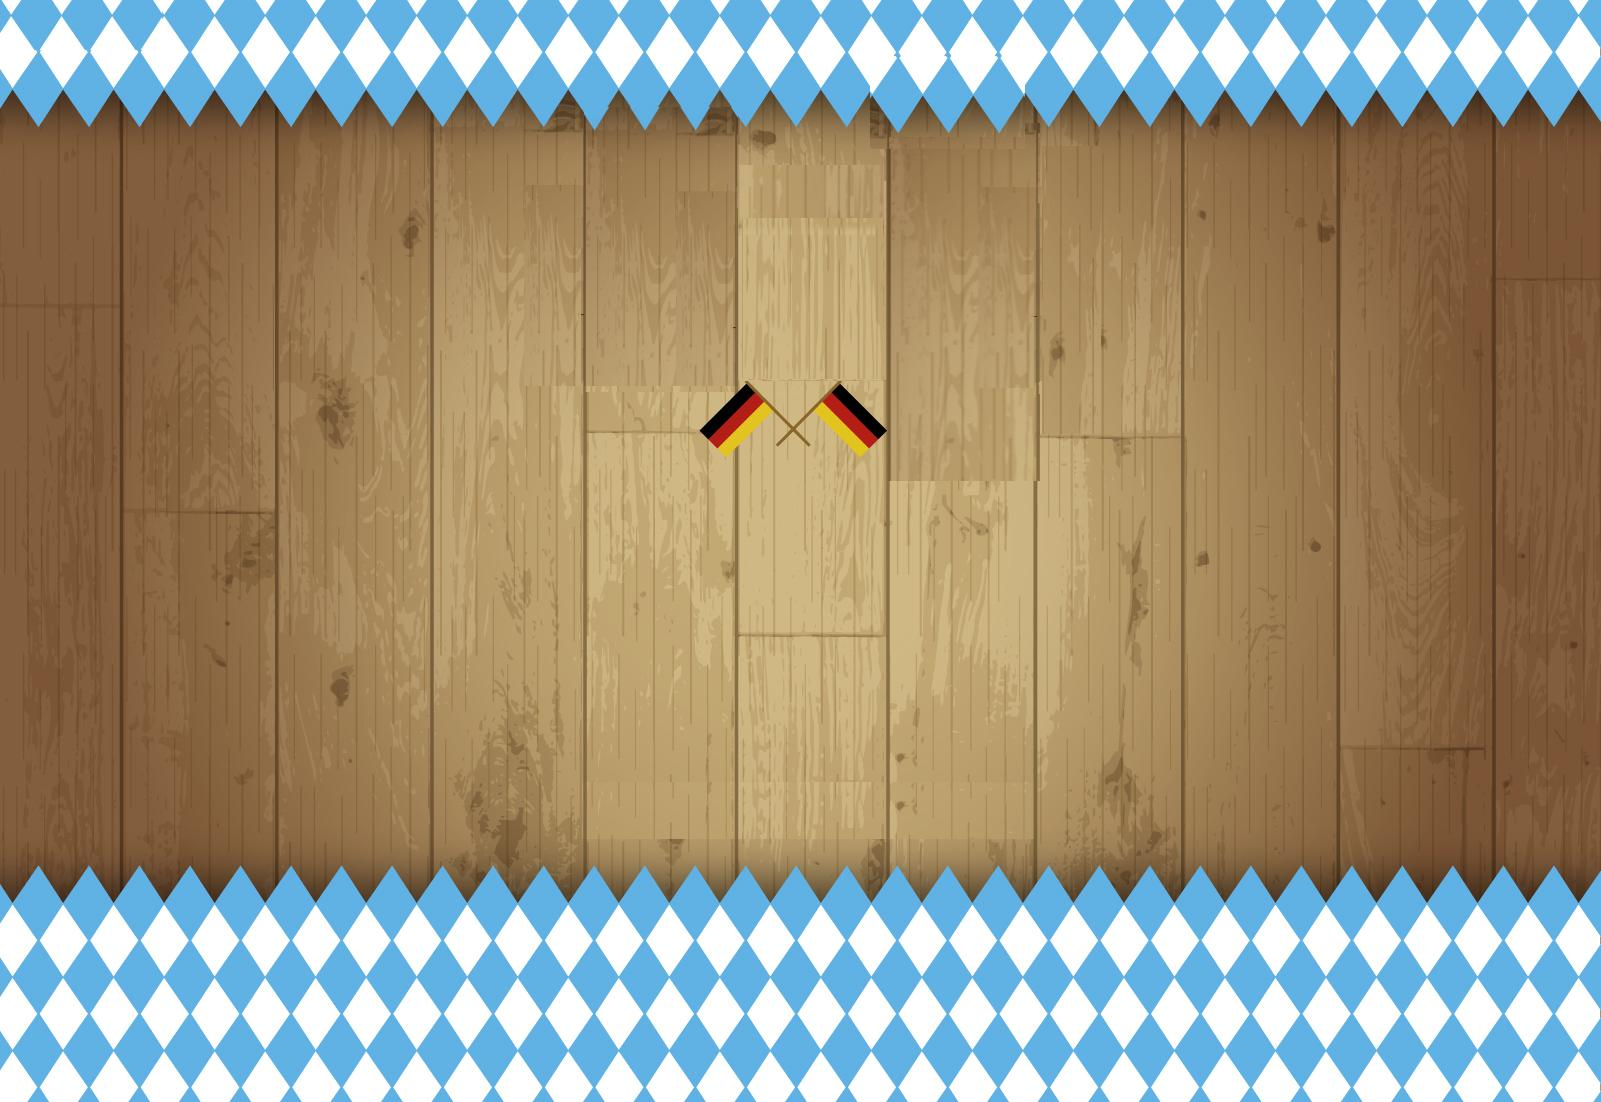
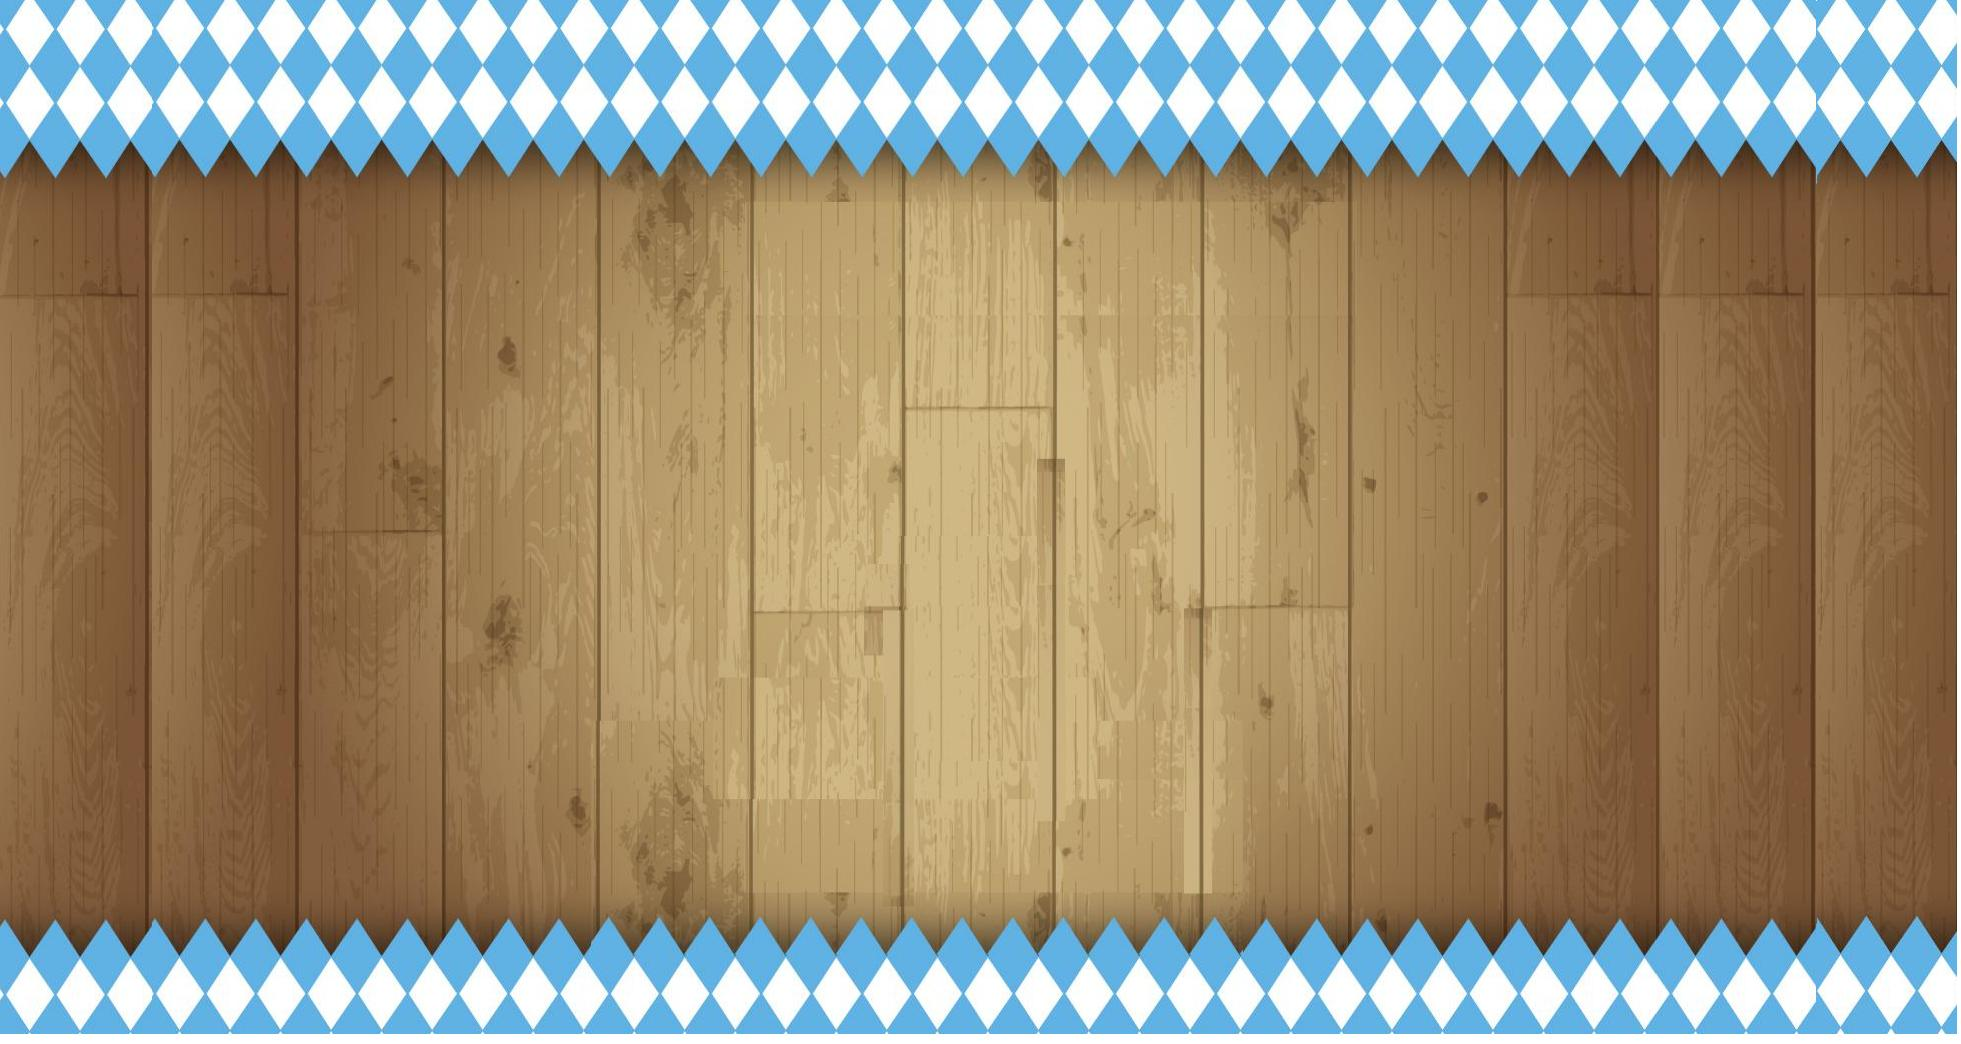
styling

diff --git a/my-app/src/components/About.jsx b/my-app/src/components/About.jsx
@@ -12,7 +12,7 @@ const About = () => {
         </div>
         <div>
           <p className="column">
-            <h4>Oktoberfest</h4>
+            <h3 className="h3Color">Oktoberfest</h3>
             The Oktoberfest (German pronunciation: [ɔkˈtoːbɐˌfɛst]) is the
             world's largest Volksfest (beer festival and travelling funfair).
             Held annually in Munich, Bavaria, Germany, it is a 16- to 18-day
@@ -27,22 +27,13 @@ const About = () => {
             consumed: during the 16-day festival in 2013, for example, 7.7
             million litres (66,000 US bbl; 1,700,000 imp gal) were served.[1]
             Visitors also enjoy numerous attractions, such as amusement rides,
-            sidestalls, and games. There is also a wide variety of traditional
-            foods available. The Munich Oktoberfest originally took place in the
-            16-day period leading up to the first Sunday in October. In 1994,
-            this longstanding schedule was modified in response to German
-            reunification. As such, if the first Sunday in October falls on the
-            1st or the 2nd, then the festival would run until 3 October (German
-            Unity Day). Thus, the festival now runs for 17 days when the first
-            Sunday is 2 October and 18 days when it is 1 October. In 2010, the
-            festival lasted until the first Monday in October (4 October), to
-            mark the event's bicentennial.
+            sidestalls, and games.
             <a href="https://en.wikipedia.org/wiki/Oktoberfest">Wikipedia</a>
           </p>
         </div>
         <div>
           <p className="column">
-            <h4>History</h4>
+            <h3 className="h3Color">History</h3>
             Kronprinz Ludwig (1786–1868), later King Ludwig I (reign:
             1825–1848), married Princess Therese of Saxe-Hildburghausen on 12
             October 1810. The citizens of Munich were invited to attend the
@@ -56,16 +47,7 @@ const About = () => {
             Andreas Michael Dall'Armi, a Major in the National Guard, proposed
             the idea. However, the origins of the horse races, and Oktoberfest
             itself, may have stemmed from proposals offered by Franz
-            Baumgartner, a coachman and Sergeant in the National Guard. The
-            precise origins of the festival and horse races remain a matter of
-            controversy, however, the decision to repeat the horse races,
-            spectacle, and celebrations in 1811 launched what is now the annual
-            Oktoberfest tradition. The fairground, once outside the city, was
-            chosen due to its natural suitability. The Sendlinger Hill (today
-            Theresienhohe) was used as a grandstand for 40,000 race spectators.
-            The festival grounds remained undeveloped except for the king's
-            tent. The tastings of "Traiteurs" and other wine and beer took place
-            above the visitors in the stands on the hill.
+            Baumgartner, a coachman and Sergeant in the National Guard.
             <a href="https://en.wikipedia.org/wiki/Oktoberfest">Wikipedia</a>
           </p>
         </div>

diff --git a/my-app/src/components/Main.jsx b/my-app/src/components/Main.jsx
@@ -1,52 +1,56 @@
-import React, {Component} from 'react'
-import {BrowserRouter, Switch, Route} from "react-router-dom"
-import data from "../Data/data.json"
-import App from "../App"
-import Cart from "./Cart"
-import Header from "./Header"
-import About from './About'
-import Help from "./Help"
-import NotFound from "./NotFound"
-
+import React, { Component } from 'react';
+import { BrowserRouter, Switch, Route } from 'react-router-dom';
+import data from '../Data/data.json';
+import App from '../App';
+import Cart from './Cart';
+import Header from './Header';
+import About from './About';
+import Help from './Help';
+import NotFound from './NotFound';
+import Footer from './Footer';
 
 export default class Main extends Component {
+  constructor(props) {
+    super(props);
+    this.state = {
+      data: data,
+      cart: [],
+    };
+  }
 
-    constructor(props) {
-        super(props);
-        this.state = {
-          data: data,
-          cart: [] 
-        };
-      }
+  addToCart = (id) => {
+    const temp = this.state.data.filter((bier) => bier.id === id);
+    console.log(temp);
+    this.setState({ cart: [...this.state.cart, temp[0]] });
+  };
 
-      addToCart = (id) => {
-        const temp = this.state.data.filter(bier => bier.id === id);
-        console.log(temp);
-        this.setState({cart: [...this.state.cart, temp[0]]})
-      }
-
-    render () {
-
+  render() {
     return (
-       <BrowserRouter>
-       <Header length={this.state.cart.length}/>
+      
+      <BrowserRouter>
+        <Header length={this.state.cart.length} />
         <Switch>
-        
-        <Route path="/" exact>
-            <App data={this.state.data} addToCart={this.addToCart} cart={this.state.cart} />      
-        </Route>
+          <Route path="/" exact>
+            <App
+              data={this.state.data}
+              addToCart={this.addToCart}
+              cart={this.state.cart}
+            />
+          </Route>
 
-        <Route path="/about" component={About} exact/>
+          <Route path="/about" component={About} exact />
 
-        <Route path="/cart" exact>
-            <Cart cart={this.state.cart}/>
-        </Route>
+          <Route path="/cart" exact>
+            <Cart cart={this.state.cart} />
+          </Route>
 
-        <Route path="/help" component={Help} exact/>
-        <Route component={NotFound} />
+          <Route path="/help" component={Help} exact />
+          <Route component={NotFound} />
 
-        </Switch>        
-        </BrowserRouter>
-        )
-    }
+          
+        </Switch>
+        <Footer />
+      </BrowserRouter>
+    );
+  }
 }

diff --git a/my-app/src/css/pei.css b/my-app/src/css/pei.css
@@ -1,13 +1,16 @@
 @import url('https://fonts.googleapis.com/css2?family=Carter+One&display=swap');
 
 * {
-  background-color: rgb(180, 127, 51);
+  background: url(../img/main-background.jpg) fixed;
+  background-size: cover;
+  background-repeat: repeat-y;
+  font-family: 'Carter One', cursive;
 }
 .header {
   font-family: 'Carter One', cursive;
   font-size: 80px;
   color: rgb(226, 236, 102);
-  margin-left: 10%;
+  text-align: center;
 }
 
 .logo {
@@ -17,14 +20,17 @@
 .about {
   font-family: 'Carter One', cursive;
   font-size: 40px;
+  margin-left: 3%;
   color: rgb(226, 236, 102);
 }
 
 .column {
+  color: rgba(49, 28, 16);
   float: left;
   width: 30%;
   padding: 5px;
   margin-left: 1%;
+  font-size: 22px;
 }
 
 .row::after {
@@ -33,3 +39,53 @@
   display: table;
 }
 
+.h3Color {
+  color: rgb(226, 236, 102);
+}
+
+footer {
+  color: rgb(46, 32, 32);
+  font-size: 20px;
+  margin-bottom: 20px;
+  text-align: center;
+}
+
+.brezel {
+  width: 7%;
+}
+
+/* Pei< */
+.bier-img {
+  box-shadow: -30px 20px 5px rgba(110, 78, 32, 0.411);
+  border-radius: 50px;
+  margin-top: 5%;
+  margin-bottom: 5%;
+}
+
+div.productCard {
+  border: 10px solid rgba(49, 28, 16, 0.664);
+  border-radius: 50px;
+  border-width: 10px;
+  color: rgba(49, 28, 16);
+}
+
+.nav-bar {
+  font-size: 30px;
+  text-align: center;
+}
+
+.shop-cart-btn {
+  font-size: 24px;
+  color: rgba(49, 28, 16);
+  text-shadow: 3px 2px 5px white;
+  border-radius: 15px;
+  border-width: 5px;
+  width: 35%;
+  height: 10%;
+}
+
+#trolly-icon {
+  font-size: 40px;
+}
+
+/* > Pei */

diff --git a/my-app/src/components/Header.jsx b/my-app/src/components/Header.jsx
@@ -1,18 +1,27 @@
 import React from 'react';
-import {Link} from "react-router-dom";
-import logo from '../img/logo.png'
+import { Link } from 'react-router-dom';
+import logo from '../img/logo.png';
+import brezel from '../img/brezel.png';
 
-const Header = ({length}) => {
+const Header = ({ length }) => {
   return (
     <header>
-      <h1 className="header">Make your own<img className="logo" src={logo} alt="Logo"/>Octoberfest 2020</h1>
-      <Link to ="/" >Home</Link>      
-      <Link to = "/cart">Go to cart {length}</Link>
-      <Link to = "/about">About</Link>
-      <Link to = "./help">Help</Link>
+      <h1 className="header">
+        <img className="brezel" src={brezel} alt="brezel" />
+        <img className="brezel" src={brezel} alt="brezel" />
+        Make your own
+        <img className="logo" src={logo} alt="Logo" />
+        Octoberfest 2020
+        <img className="brezel" src={brezel} alt="brezel" />
+      </h1>
+      <div className="nav-bar">
+        <Link to="/">Home  </Link>
+        <Link to="/cart">Go to cart {length}  </Link>
+        <Link to="/about">About  </Link>
+        <Link to="./help">Help</Link>
+      </div>
     </header>
   );
-
 };
 
 export default Header;

diff --git a/my-app/src/components/Card.jsx b/my-app/src/components/Card.jsx
@@ -11,7 +11,7 @@ export default function Card({name, color, country, img_url, id, price, addToCar
             <p className="bier-country">country: {country}
             </p>
             <p>price: {price}</p>
-            <button className="shop-cart-btn" onClick={()=> addToCart(id)}>Add to &#x1f6d2;</button>
+            <button className="shop-cart-btn" onClick={()=> addToCart(id)}>Add to <span id="trolly-icon">&#x1f6d2;</span></button>
         </div>
     )
 }

diff --git a/my-app/src/components/Footer.jsx b/my-app/src/components/Footer.jsx
@@ -1,0 +1,11 @@
+import React from 'react';
+
+const Footer = () => {
+    return (
+        <footer className="footer">
+            &copy; Copyright 2020, Not all rights are reserved
+        </footer>
+    )
+};
+
+export default Footer;

diff --git a/my-app/src/css/App.css b/my-app/src/css/App.css
@@ -1,7 +1,4 @@
-body {
-  background-image: url(../img/main-background.jpg);
-  
-}
+
 
 .products_wrapper {
   width: 100%;
